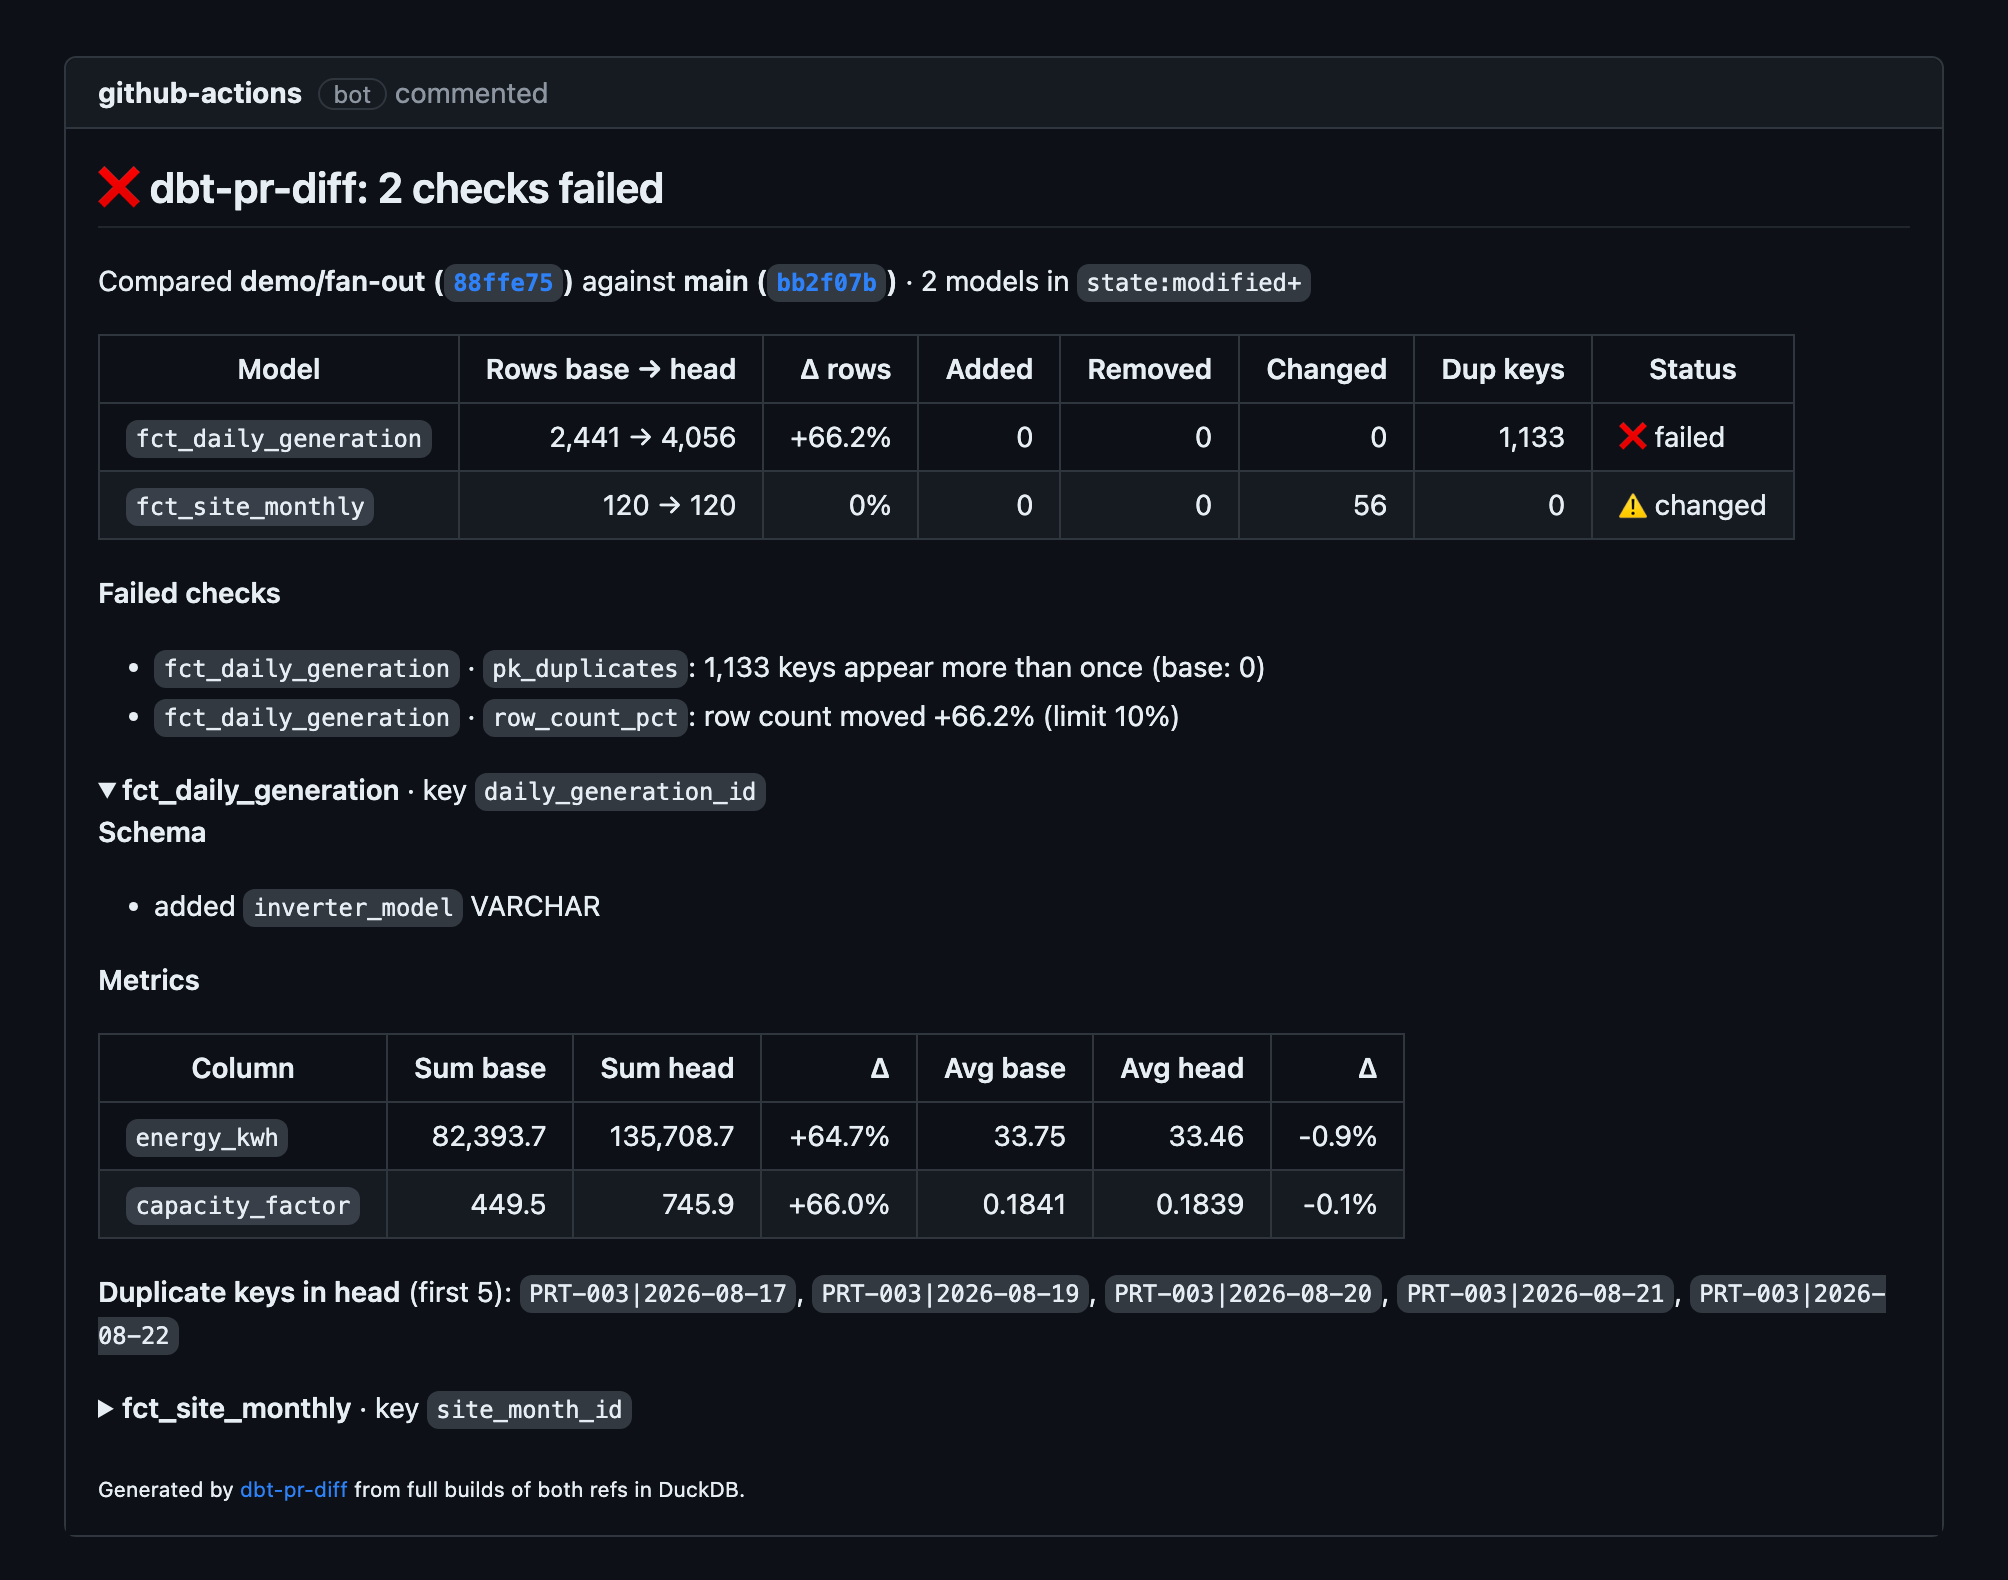
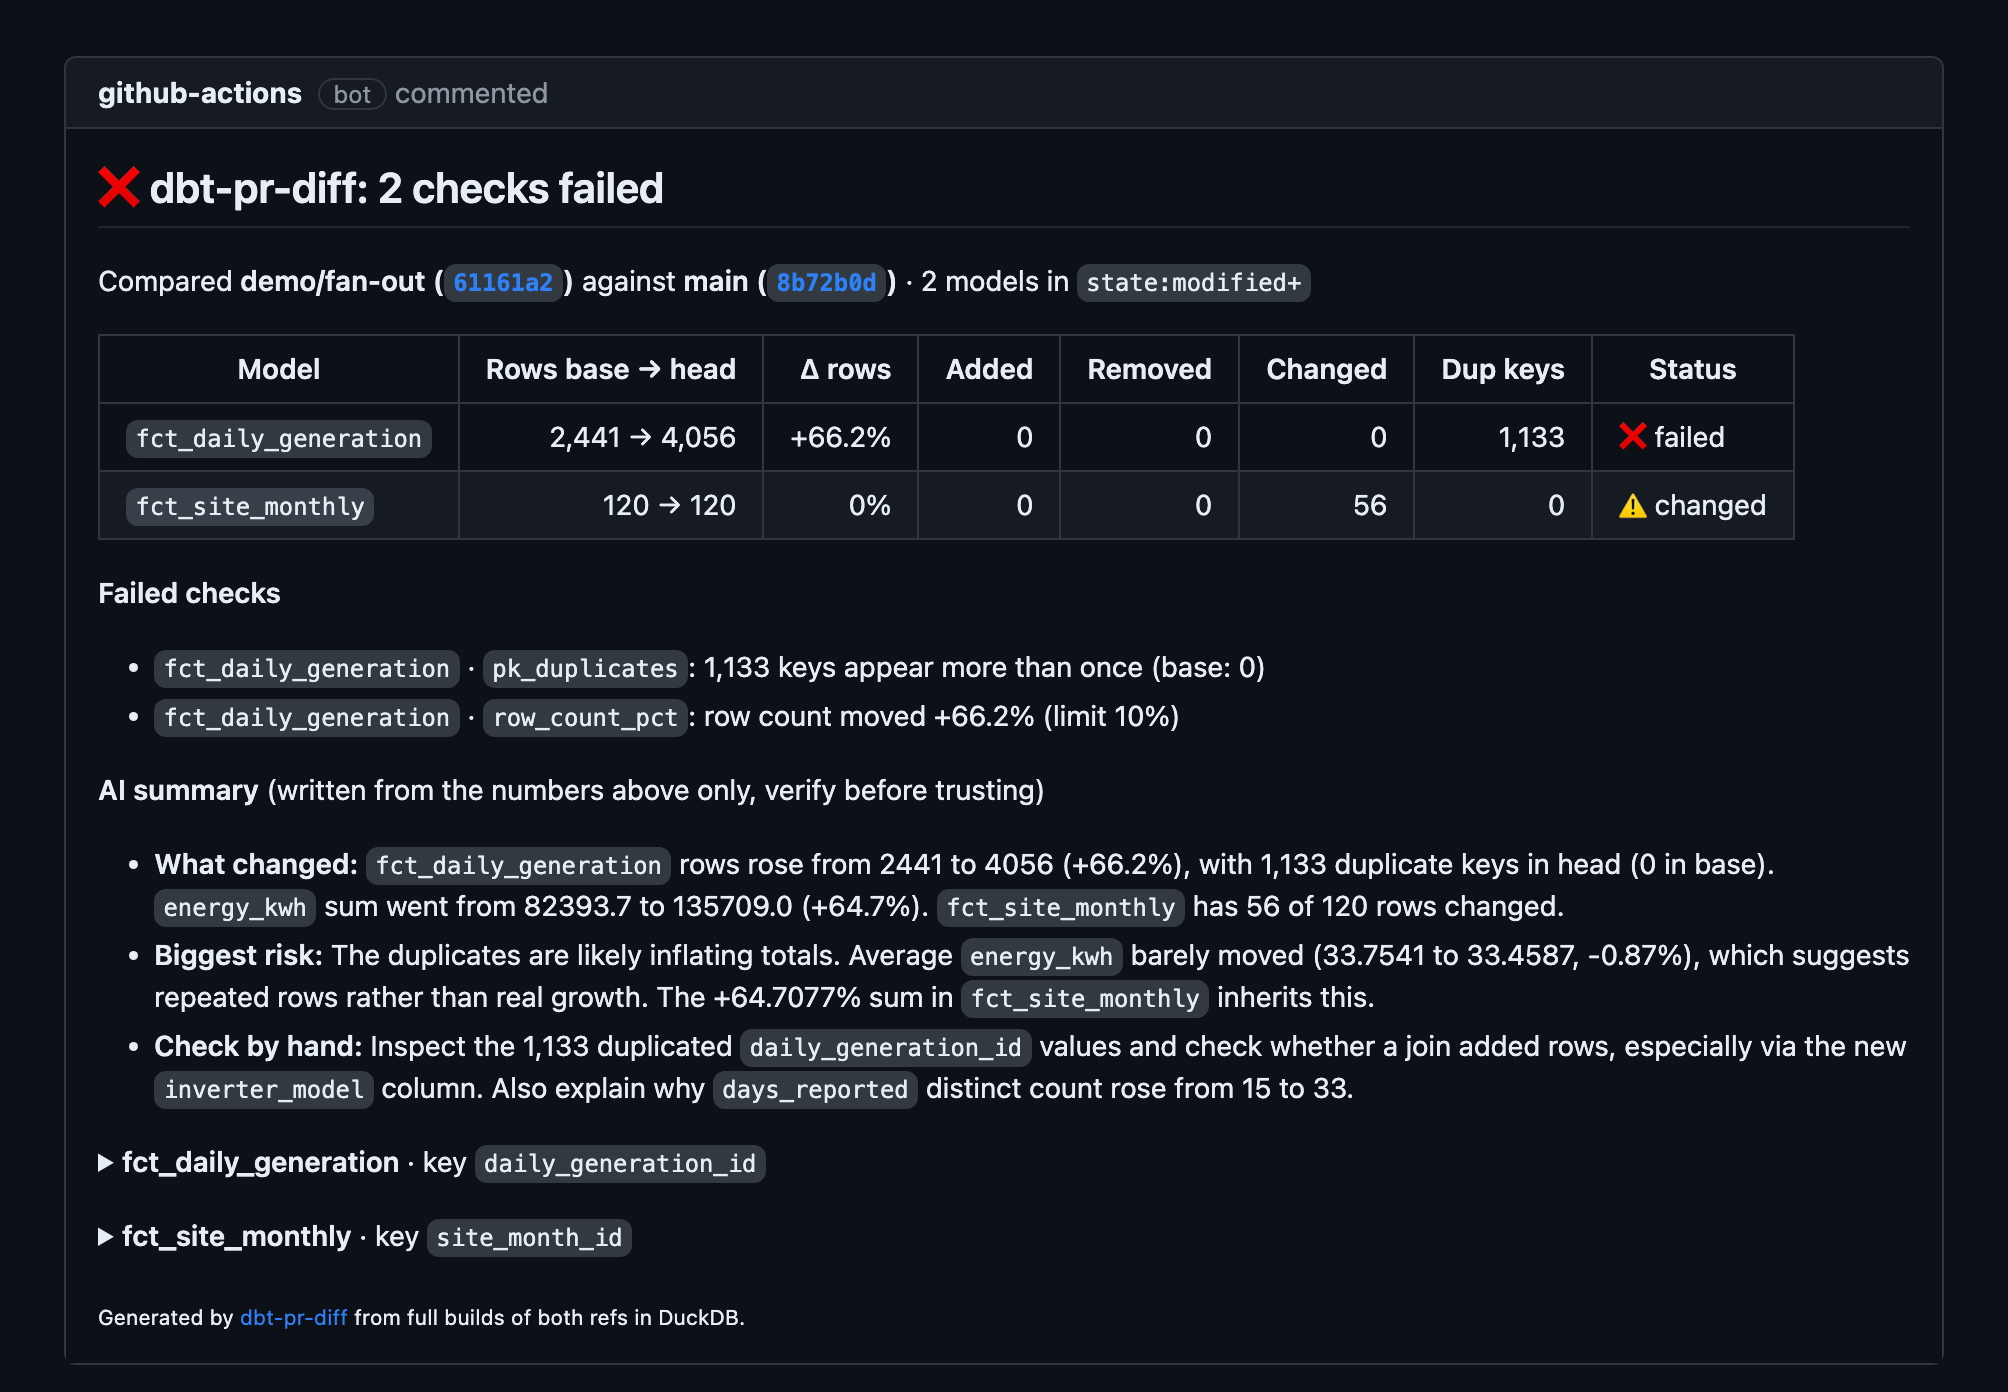
Retake the README screenshot with the AI summary

Changed region(s): [[0.0309, 0.0309, 0.9572, 0.9576]]

diff --git a/README.md b/README.md
@@ -10,7 +10,7 @@ It is a GitHub Action and a CLI of about 1,000 lines with no server and no accou
 
 This is the real comment on the [fan-out demo PR](https://github.com/PZawieja/dbt-pr-diff/pull/2), where a join to `stg_inverters` duplicates every site that has more than one inverter:
 
-<img src="docs/images/pr-comment-fan-out.png" width="820" alt="A dbt-pr-diff pull request comment titled 2 checks failed. fct_daily_generation went from 2,441 to 4,056 rows, plus 66.2 percent, with 1,133 duplicate keys and a failed status. The metrics table shows energy_kwh summing to 82,393.7 on main and 135,708.7 on the PR, plus 64.7 percent, while its average moves from 33.75 to 33.46, minus 0.9 percent.">
+<img src="docs/images/pr-comment-fan-out.png" width="820" alt="A dbt-pr-diff pull request comment titled 2 checks failed. fct_daily_generation went from 2,441 to 4,056 rows, plus 66.2 percent, with 1,133 duplicate keys. Two failed checks are listed: pk_duplicates and row_count_pct. An AI summary notes that average energy barely moved while the sum rose 64.7 percent, which points to repeated rows, and suggests inspecting the duplicated keys and the new inverter_model join.">
 
 The average barely moves while the sum goes up 65%, which is why the comment shows both:
 
